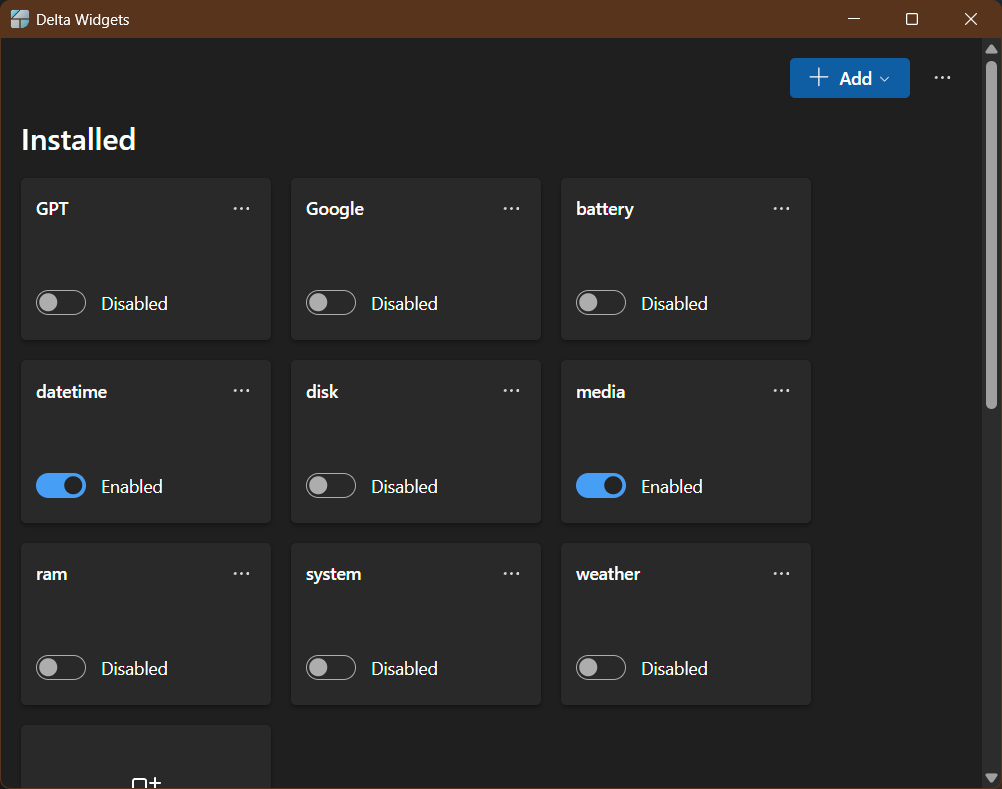
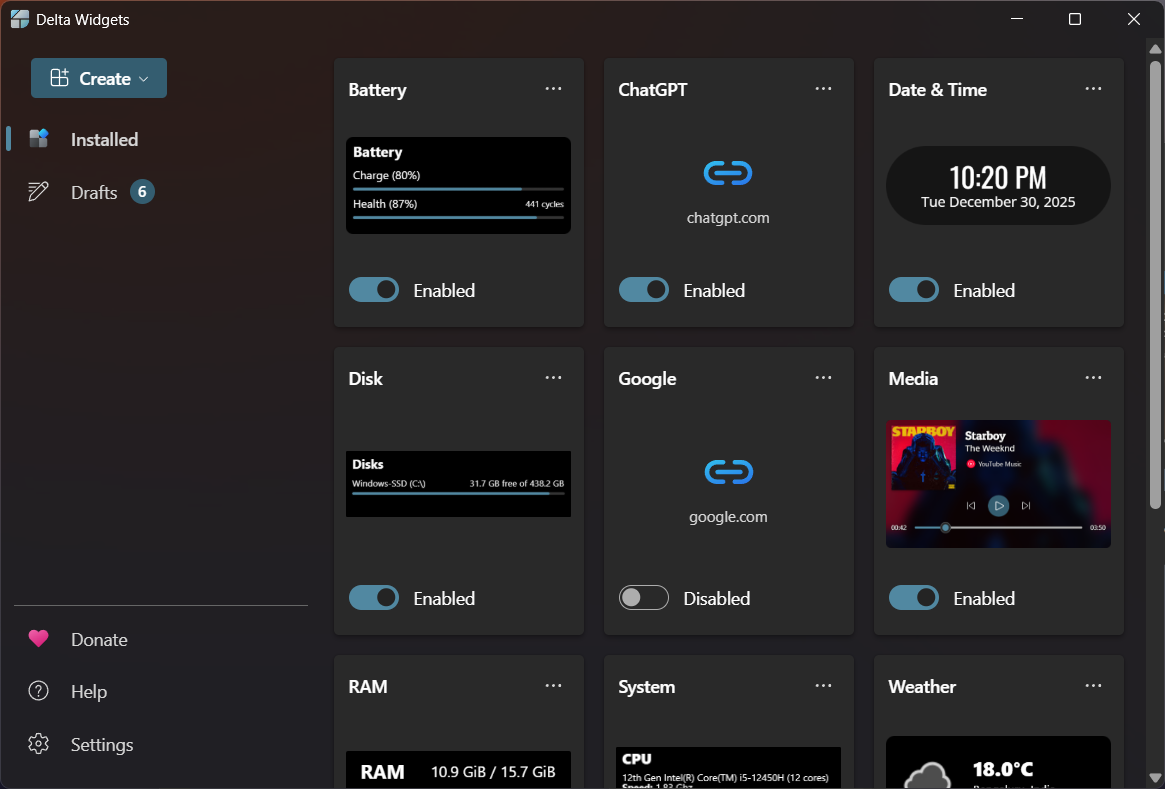
feat: update screenshots

diff --git a/docs/index.md b/docs/index.md
@@ -27,7 +27,7 @@ It lets you create desktop widgets with **drag & drop**, **custom HTML/CSS**, an
 
 ### Main window
 
-![main](./img/ss-2-new.png)
+![main](./img/ss-2.png)
 
 ### Creator window
 

diff --git a/README.md b/README.md
@@ -22,7 +22,7 @@ Desktop
 
 Main window
 
-![main](/ss-2-new.png)
+![main](/ss-2.png)
 
 Creator window
 
